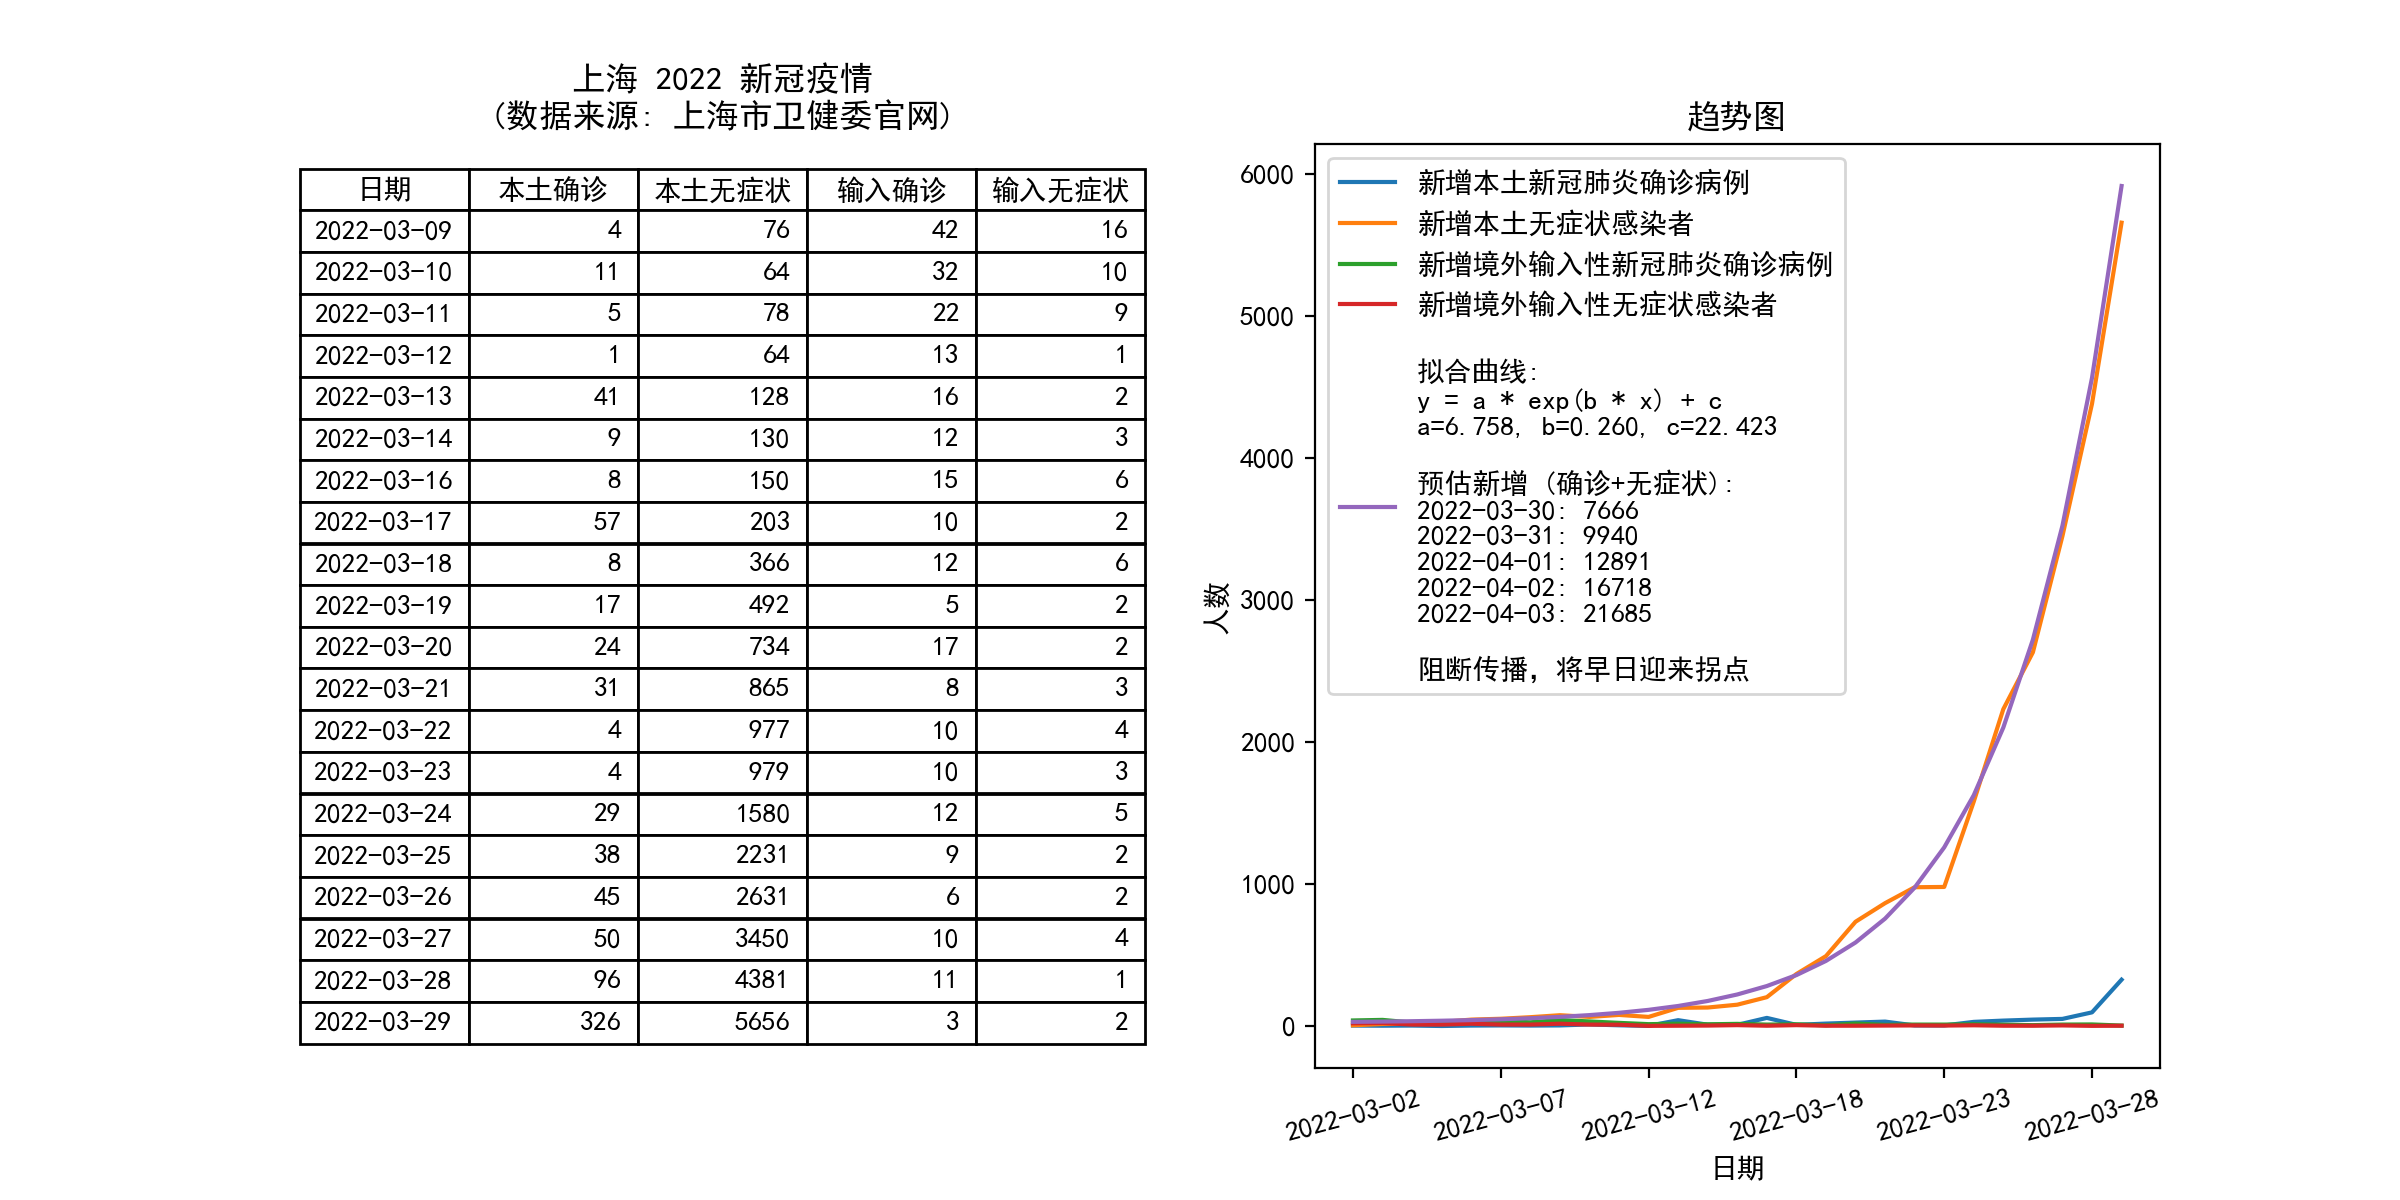
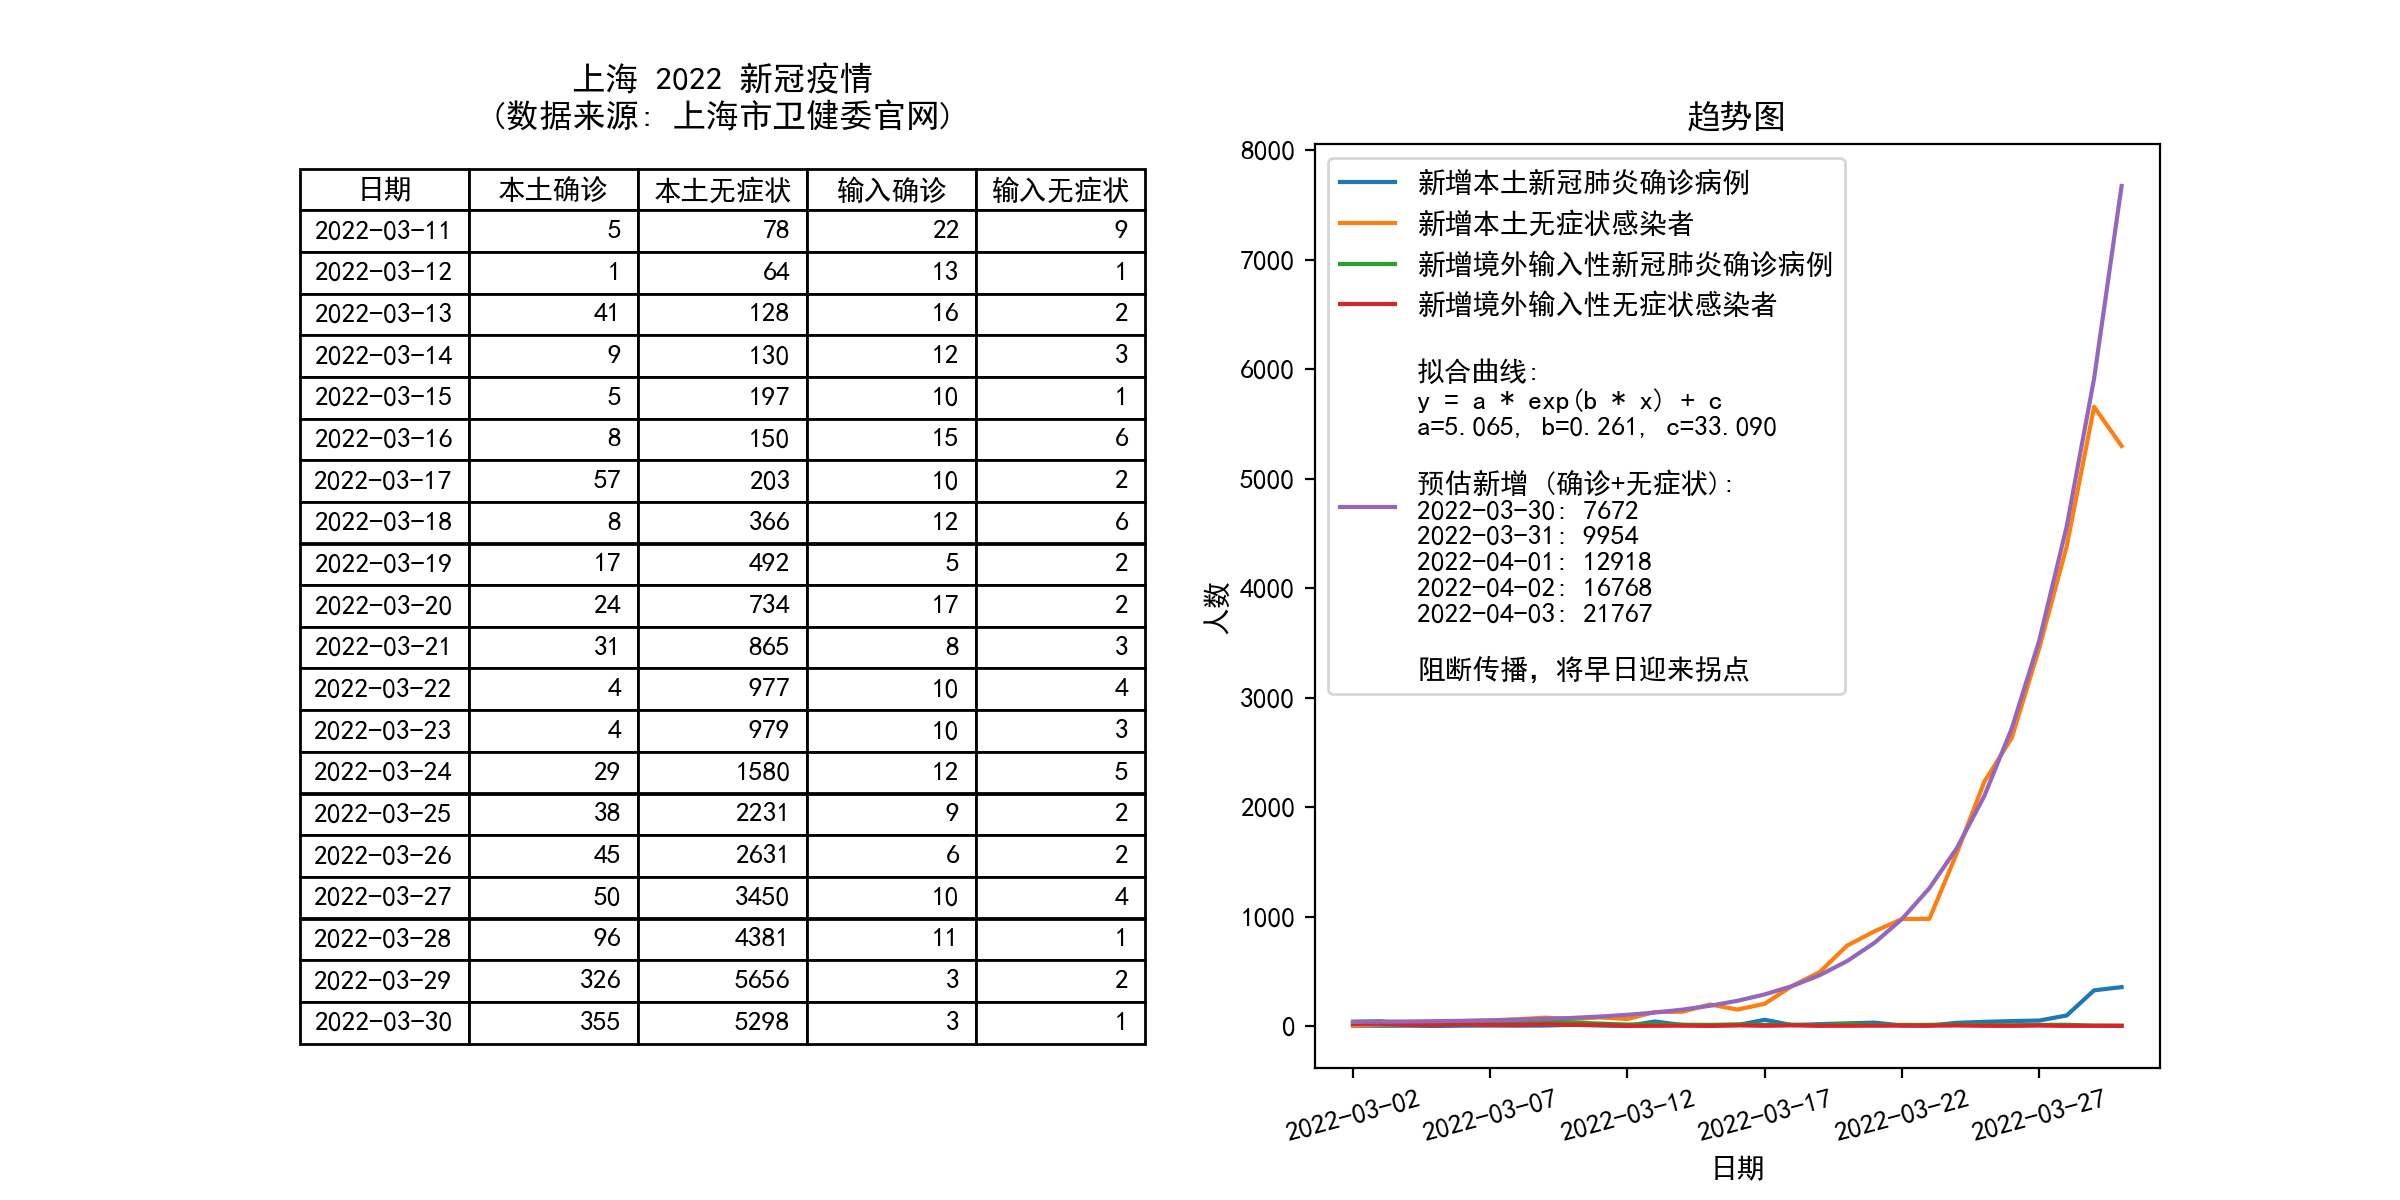
curve fit till 2022-03-30

diff --git a/shanghai_covid19/shanghai_covid19_plot.py b/shanghai_covid19/shanghai_covid19_plot.py
@@ -17,6 +17,8 @@ KEYS = ['新增本土新冠肺炎确诊病例','新增本土无症状感染者',
 YESTERDAY_PATTERN = '昨日新增本土新冠肺炎确诊病例96例、无症状感染者4381例，新增境外输入性确诊病例11例、无症状感染者1例'
 CSV_FILE = 'shanghai_covid19_data.csv'
 PLOT_SINCE_DATE = '2022-03-01'
+FIT_END_DATE = '2022-03-30'
+PREDICT_DAYS = 5
 
 def parse_html_to_csv(since_date):
     since_date = (dt.datetime.strptime(since_date, '%Y-%m-%d')).date()
@@ -83,41 +85,41 @@ def func(x, a, b, c):
 
 def plot_csv( since_date, fit = False ):
     df = pd.read_csv(CSV_FILE)
-    #df['新增境外输入'] = df['新增境外输入性新冠肺炎确诊病例'] + df['新增境外输入性无症状感染者'] + df['新增境外输入']
-    #df['新增本土'] = df['新增本土新冠肺炎确诊病例'] + df['新增本土无症状感染者']
+    df['新增境外输入'] = df['新增境外输入性新冠肺炎确诊病例'] + df['新增境外输入性无症状感染者'] + df['新增境外输入']
+    df['新增本土'] = df['新增本土新冠肺炎确诊病例'] + df['新增本土无症状感染者']
     print(df)
 
-    df_plot = df[ df['日期'] > since_date ]
+    df_plot = df[ df['日期'] > since_date ].copy()
 
     if fit:
-        xdata = df_plot.index
-        xdata -= xdata[0]
-        ydata = df_plot['新增本土无症状感染者'] + df_plot['新增本土新冠肺炎确诊病例']
-        #print(xdata, ydata)
+        df_fit = df_plot[ df_plot['日期'] < FIT_END_DATE ]
+        xdata = df_fit.index - df_fit.index[0]
+        ydata = df_fit['新增本土无症状感染者'] + df_fit['新增本土新冠肺炎确诊病例']
         popt, pcov = curve_fit(func, xdata, ydata)
-        fit_ydata = func(xdata, *popt)
         fit_label = ('\n拟合曲线:\ny = a * exp(b * x) + c\na=%5.3f, b=%5.3f, c=%5.3f\n' % tuple(popt))
+
         fit_label += '\n预估新增 (确诊+无症状):'
-        for i in range(5):
-            fit_label += '\n' + (datetime_today() + dt.timedelta(i)).strftime('%Y-%m-%d') + ': '+str(int(func((xdata[-1]+1+i), *popt)))
+        fit_end_date = dt.datetime.strptime(FIT_END_DATE, '%Y-%m-%d')
+        for i in range(PREDICT_DAYS):
+            fit_label += '\n' + (fit_end_date + dt.timedelta(i)).strftime('%Y-%m-%d') + ': '+str(int(func((xdata[-1]+1+i), *popt)))
         fit_label += '\n\n阻断传播，将早日迎来拐点'
 
-    array_plot = df_plot[['日期','新增本土新冠肺炎确诊病例','新增本土无症状感染者','新增境外输入性新冠肺炎确诊病例','新增境外输入性无症状感染者']].tail(20).values
+        xdata = df_plot.index - df_plot.index[0]
+        df_plot[ fit_label ] = func(xdata, *popt)
+
+    array_table = df_plot[['日期','新增本土新冠肺炎确诊病例','新增本土无症状感染者','新增境外输入性新冠肺炎确诊病例','新增境外输入性无症状感染者']].tail(20).values
 
     df_plot.index = df_plot['日期']
-    df_plot = df_plot[ ['新增本土新冠肺炎确诊病例','新增本土无症状感染者','新增境外输入性新冠肺炎确诊病例','新增境外输入性无症状感染者'] ]
-
-    if fit:
-        df_plot[ fit_label ] = fit_ydata
+    df_plot = df_plot[ ['新增本土新冠肺炎确诊病例','新增本土无症状感染者','新增境外输入性新冠肺炎确诊病例','新增境外输入性无症状感染者', fit_label] ]
 
     # create figure 2x1
     fig, (ax0, ax1) = plt.subplots(1, 2, gridspec_kw={'width_ratios': [1, 1]})
 
-    n = len(array_plot)
+    n = len(array_table)
     ax0.axis('tight')
     ax0.axis('off')
     ax0.table(
-        cellText=array_plot,
+        cellText=array_table,
         colLabels=['日期','本土确诊','本土无症状','输入确诊','输入无症状'],
         loc='center',
         )
